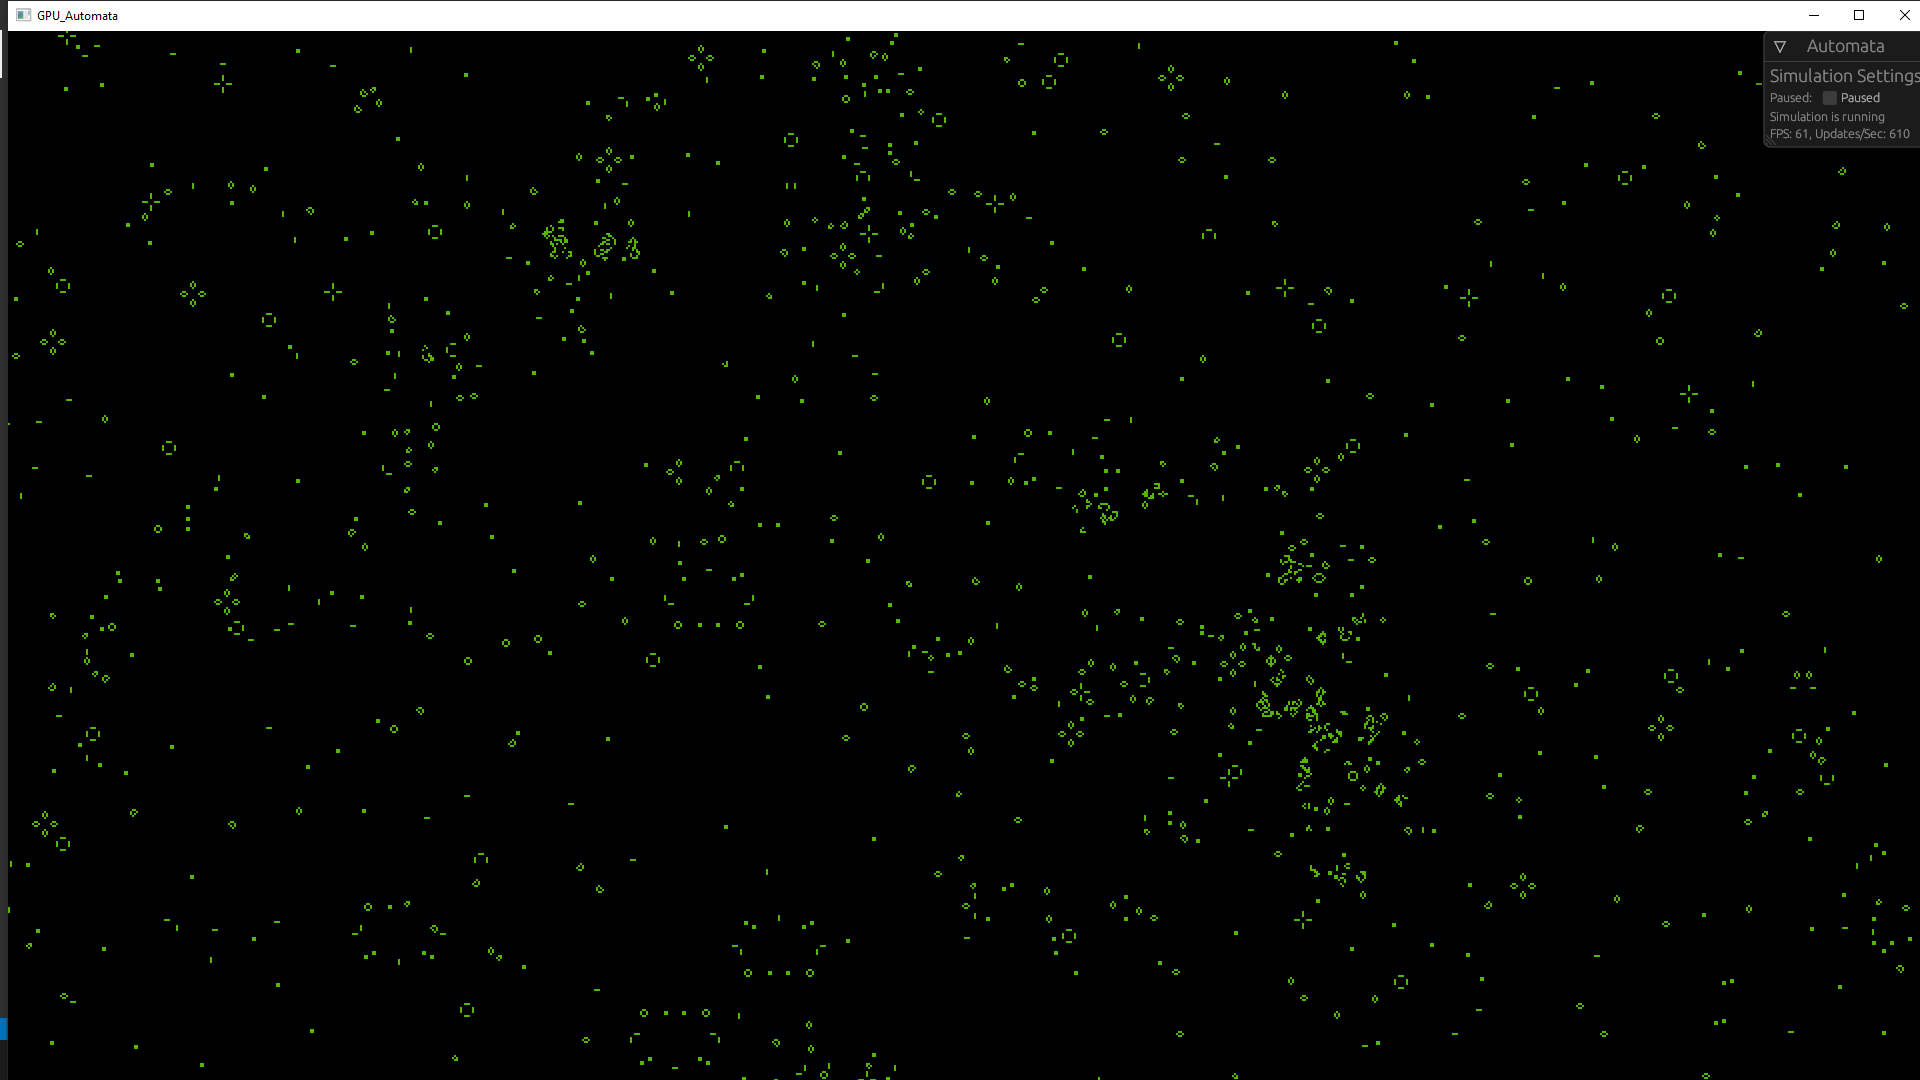
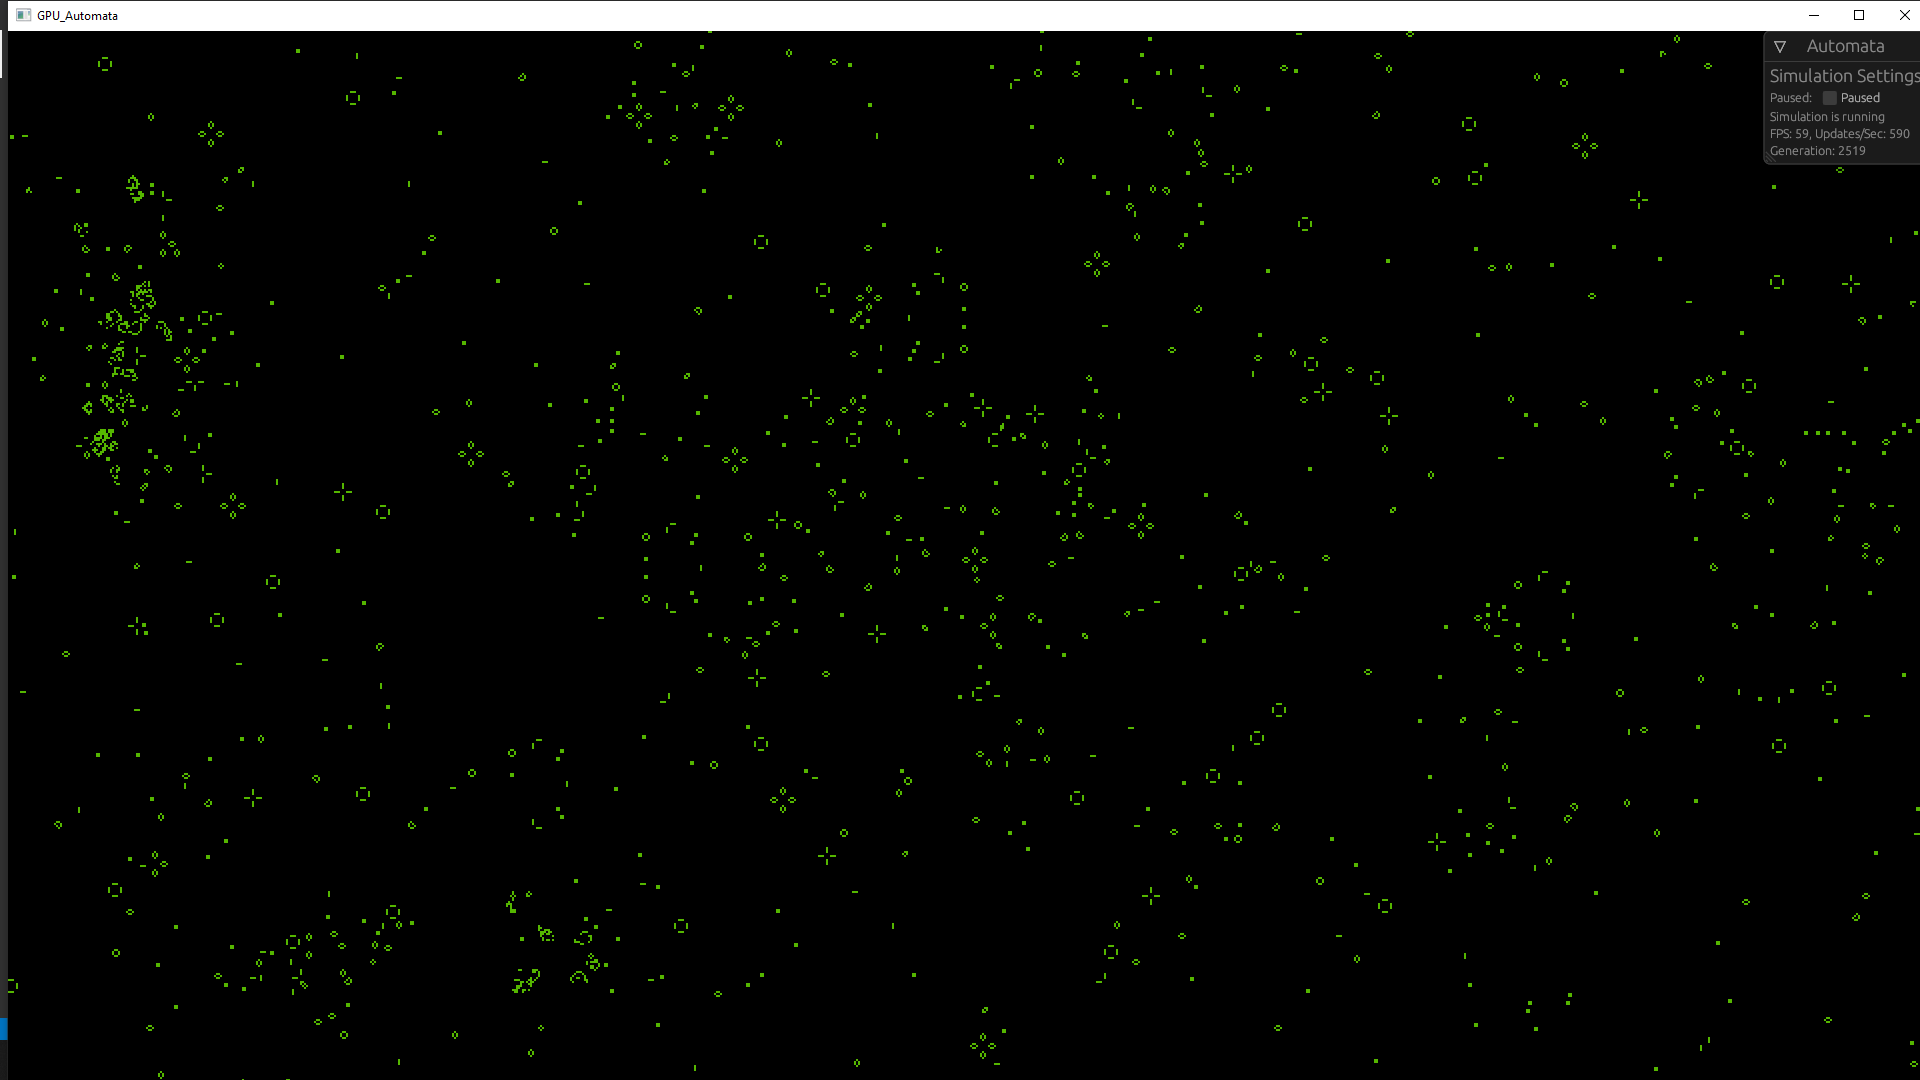
Updated gui to include generation count

diff --git a/src/app/simulator.rs b/src/app/simulator.rs
@@ -7,6 +7,7 @@ pub struct SimulationState {
     pub fps: u32,
     //Updates per second
     pub ups: u32,
+    pub generations: usize,
 }
 
 impl Default for SimulationState {
@@ -15,6 +16,7 @@ impl Default for SimulationState {
             paused: false,
             fps: 0,
             ups: 0,
+            generations: 0,
         }
     }
 }
@@ -66,5 +68,6 @@ pub trait Simulator {
         sim_state.paused = gui_sim_state.paused;
         gui_sim_state.fps = sim_state.fps;
         gui_sim_state.ups = sim_state.ups;
+        gui_sim_state.generations = sim_state.generations;
     }
 }

diff --git a/src/app/gui/gui_window.rs b/src/app/gui/gui_window.rs
@@ -33,6 +33,7 @@ impl GuiWindow {
                     "FPS: {}, Updates/Sec: {}",
                     self.sim_state.fps, self.sim_state.ups
                 ));
+                ui.label(format!("Generation: {}", self.sim_state.generations));
             });
     }
 }

diff --git a/src/app/continuous.rs b/src/app/continuous.rs
@@ -63,6 +63,7 @@ impl Simulator for Continuous {
 
         gpu.queue.submit(Some(encoder.finish()));
         self.current_frame += 1;
+        self.get_simulation_state_mut().generations = self.current_frame;
     }
 
     fn get_size(&self) -> IVec2 {

diff --git a/src/app/totalistic.rs b/src/app/totalistic.rs
@@ -81,6 +81,7 @@ impl Simulator for Totalistic {
 
         gpu.queue.submit(Some(encoder.finish()));
         self.current_frame += 1;
+        self.get_simulation_state_mut().generations = self.current_frame;
     }
 
     fn get_size(&self) -> IVec2 {
